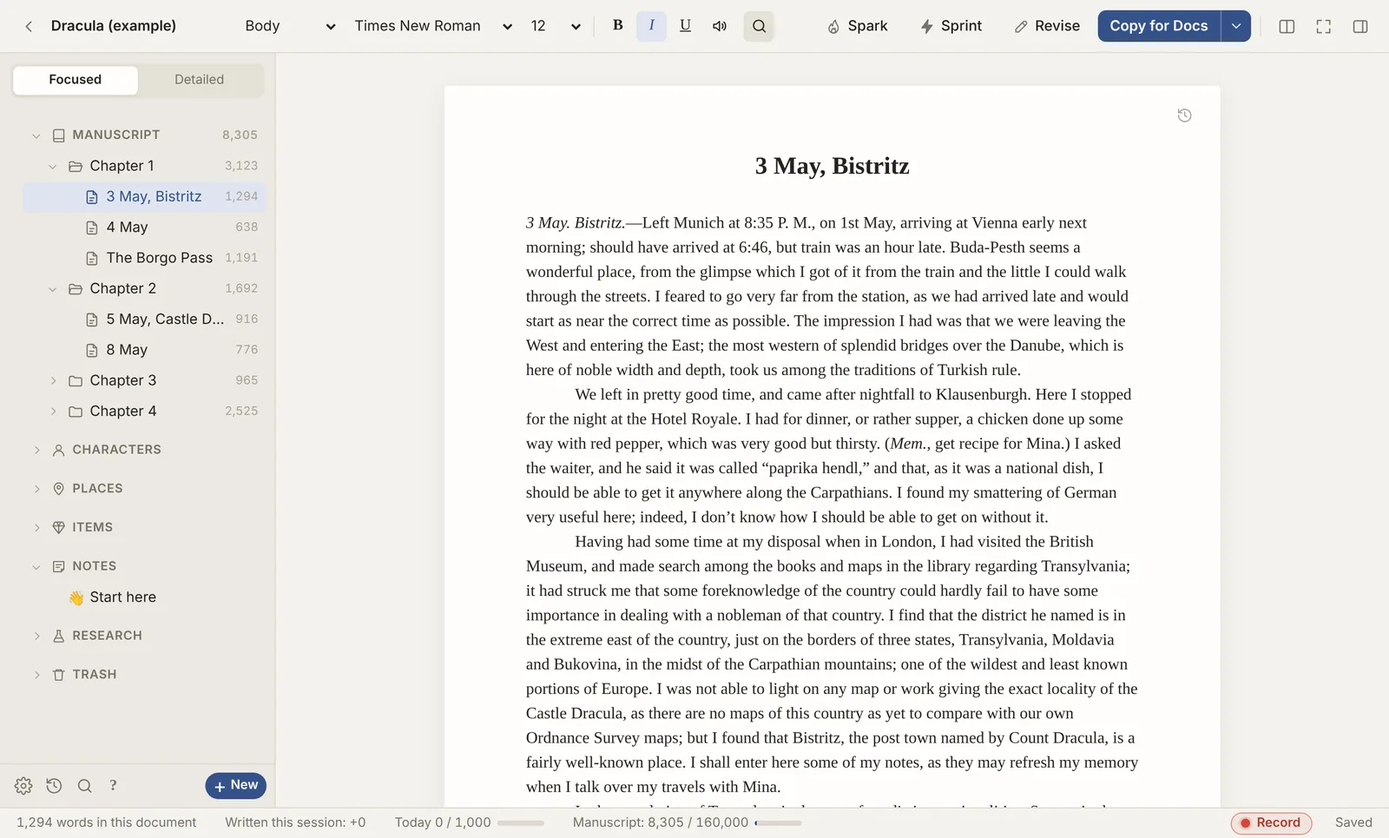
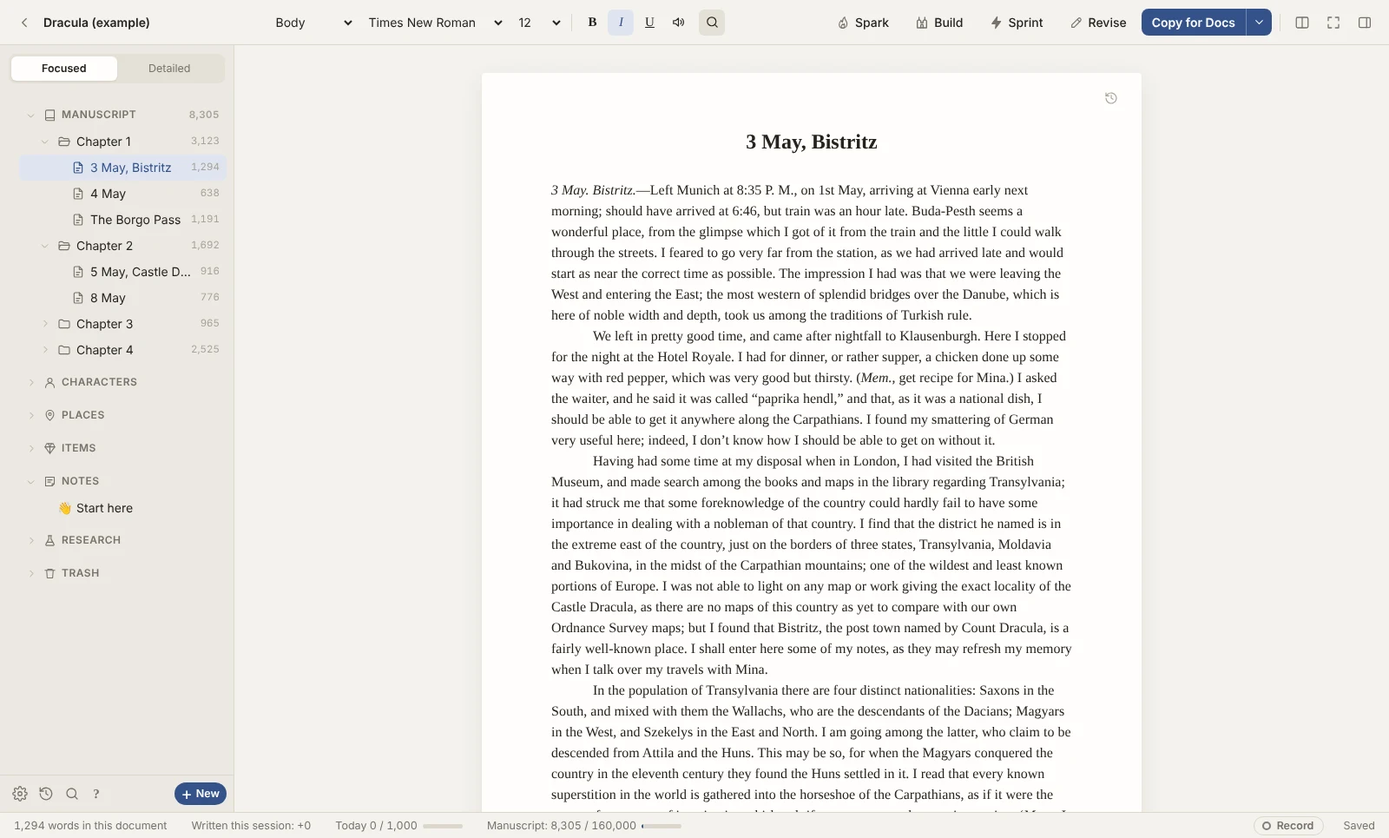
Unwip web 0.44.17

diff --git a/get/index.html b/get/index.html
@@ -523,7 +523,7 @@ dialog.mail .close{position:absolute;top:12px;right:14px;border:0;background:non
         <div class="two-col">
           <div><h3>A gentle start</h3><p>Say what you wrote with before and Unwip sets itself up to feel familiar, then brings your book straight in. An example book is there to poke at: the opening of Bram Stoker’s <i>Dracula</i>, its diary entries and letters laid out as scenes, with characters and a timeline.</p></div>
           <div><h3>A short tour</h3><p>A quick walk round the binder, the page and the modes, then out of your way. Help is always one key away (F1).</p></div>
-          <div><h3>Room to grow</h3><p>Characters, places and notes beside your manuscript, plus templates for magic systems, factions and more when your world gets bigger.</p></div>
+          <div><h3>Room to grow</h3><p>Characters, places and notes beside your manuscript, and <b>Build</b> for your world: maps you paint or roll up, magic systems with rules Unwip checks every spell against, runes, sigils and coats of arms. Open them from inside your book, in their own window on a computer.</p></div>
         </div>
       </div>
     </div>
@@ -540,7 +540,7 @@ dialog.mail .close{position:absolute;top:12px;right:14px;border:0;background:non
         <table class="cmp">
           <thead><tr><th scope="col"><span class="sr">Feature</span></th><th scope="col">Windows<span class="beta">beta</span></th><th scope="col">Mac<span class="beta">beta</span></th><th scope="col">iPad<span class="beta">beta</span></th><th scope="col">iPhone<span class="beta">beta</span></th><th scope="col">Browser<span class="beta">beta</span></th></tr></thead>
           <tbody>
-          <tr class="grp"><th colspan="6" scope="colgroup"><span>Writing and planning</span></th></tr><tr><th scope="row">Binder with chapters and scenes</th><td><svg class="dot" aria-label="Yes"><use href="#s2"/></svg></td><td><svg class="dot" aria-label="Yes"><use href="#s2"/></svg></td><td><svg class="dot" aria-label="Yes"><use href="#s2"/></svg></td><td><svg class="dot" aria-label="Yes"><use href="#s2"/></svg></td><td><svg class="dot" aria-label="Yes"><use href="#s2"/></svg></td></tr><tr><th scope="row">Focused and Detailed modes, outline</th><td><svg class="dot" aria-label="Yes"><use href="#s2"/></svg></td><td><svg class="dot" aria-label="Yes"><use href="#s2"/></svg></td><td><svg class="dot" aria-label="Yes"><use href="#s2"/></svg></td><td><svg class="dot" aria-label="Partly: outline only"><use href="#s1"/></svg><small>outline only</small></td><td><svg class="dot" aria-label="Yes"><use href="#s2"/></svg></td></tr><tr><th scope="row">Corkboard, moodboard and timeline</th><td><svg class="dot" aria-label="Yes"><use href="#s2"/></svg></td><td><svg class="dot" aria-label="Yes"><use href="#s2"/></svg></td><td><svg class="dot" aria-label="Yes"><use href="#s2"/></svg></td><td><span class="no" aria-label="No">–</span></td><td><svg class="dot" aria-label="Yes"><use href="#s2"/></svg></td></tr><tr><th scope="row">Split view</th><td><svg class="dot" aria-label="Yes"><use href="#s2"/></svg></td><td><svg class="dot" aria-label="Yes"><use href="#s2"/></svg></td><td><svg class="dot" aria-label="Yes"><use href="#s2"/></svg></td><td><span class="no" aria-label="No">–</span></td><td><svg class="dot" aria-label="Yes"><use href="#s2"/></svg></td></tr><tr><th scope="row">A chapter in its own window</th><td><svg class="dot" aria-label="Yes"><use href="#s2"/></svg></td><td><svg class="dot" aria-label="Yes"><use href="#s2"/></svg></td><td><span class="no" aria-label="No">–</span></td><td><span class="no" aria-label="No">–</span></td><td><span class="no" aria-label="No">–</span></td></tr><tr><th scope="row">Goals and timed sprints</th><td><svg class="dot" aria-label="Yes"><use href="#s2"/></svg></td><td><svg class="dot" aria-label="Yes"><use href="#s2"/></svg></td><td><svg class="dot" aria-label="Yes"><use href="#s2"/></svg></td><td><span class="no" aria-label="No">–</span></td><td><svg class="dot" aria-label="Yes"><use href="#s2"/></svg></td></tr><tr><th scope="row">Snapshots and automatic backups</th><td><svg class="dot" aria-label="Yes"><use href="#s2"/></svg></td><td><svg class="dot" aria-label="Yes"><use href="#s2"/></svg></td><td><svg class="dot" aria-label="Yes"><use href="#s2"/></svg></td><td><svg class="dot" aria-label="Yes"><use href="#s2"/></svg></td><td><svg class="dot" aria-label="Yes"><use href="#s2"/></svg></td></tr><tr><th scope="row">Revise: repetition, long sentences, grammar (no AI)</th><td><svg class="dot" aria-label="Yes"><use href="#s2"/></svg></td><td><svg class="dot" aria-label="Yes"><use href="#s2"/></svg></td><td><svg class="dot" aria-label="Yes"><use href="#s2"/></svg></td><td><svg class="dot" aria-label="Yes"><use href="#s2"/></svg></td><td><svg class="dot" aria-label="Yes"><use href="#s2"/></svg></td></tr><tr><th scope="row">Read aloud</th><td><svg class="dot" aria-label="Yes"><use href="#s2"/></svg></td><td><svg class="dot" aria-label="Yes"><use href="#s2"/></svg></td><td><svg class="dot" aria-label="Yes"><use href="#s2"/></svg></td><td><svg class="dot" aria-label="Yes"><use href="#s2"/></svg></td><td><svg class="dot" aria-label="Yes"><use href="#s2"/></svg></td></tr><tr><th scope="row">Fonts: your own, the device’s and imported</th><td><svg class="dot" aria-label="Yes"><use href="#s2"/></svg></td><td><svg class="dot" aria-label="Yes"><use href="#s2"/></svg></td><td><svg class="dot" aria-label="Yes"><use href="#s2"/></svg></td><td><svg class="dot" aria-label="Yes"><use href="#s2"/></svg></td><td><svg class="dot" aria-label="Yes"><use href="#s2"/></svg></td></tr><tr class="grp"><th colspan="6" scope="colgroup"><span>Bringing books in</span></th></tr><tr><th scope="row">Scrivener projects</th><td><svg class="dot" aria-label="Yes"><use href="#s2"/></svg></td><td><svg class="dot" aria-label="Yes"><use href="#s2"/></svg></td><td><svg class="dot" aria-label="Partly: from Dropbox"><use href="#s1"/></svg><small>from Dropbox</small></td><td><svg class="dot" aria-label="Partly: from Dropbox"><use href="#s1"/></svg><small>from Dropbox</small></td><td><svg class="dot" aria-label="Yes"><use href="#s2"/></svg></td></tr><tr><th scope="row">Word, Google Docs, text and Markdown files</th><td><svg class="dot" aria-label="Yes"><use href="#s2"/></svg></td><td><svg class="dot" aria-label="Yes"><use href="#s2"/></svg></td><td><svg class="dot" aria-label="Yes"><use href="#s2"/></svg></td><td><svg class="dot" aria-label="Yes"><use href="#s2"/></svg></td><td><svg class="dot" aria-label="Yes"><use href="#s2"/></svg></td></tr><tr><th scope="row">A whole folder or Obsidian vault</th><td><svg class="dot" aria-label="Yes"><use href="#s2"/></svg></td><td><svg class="dot" aria-label="Yes"><use href="#s2"/></svg></td><td><svg class="dot" aria-label="Partly: files, not folders"><use href="#s1"/></svg><small>files, not folders</small></td><td><svg class="dot" aria-label="Partly: files, not folders"><use href="#s1"/></svg><small>files, not folders</small></td><td><svg class="dot" aria-label="Yes"><use href="#s2"/></svg></td></tr><tr class="grp"><th colspan="6" scope="colgroup"><span>Taking it out</span></th></tr><tr><th scope="row">Print-ready PDF</th><td><svg class="dot" aria-label="Yes"><use href="#s2"/></svg></td><td><svg class="dot" aria-label="Yes"><use href="#s2"/></svg></td><td><svg class="dot" aria-label="Yes"><use href="#s2"/></svg></td><td><span class="no" aria-label="No">–</span></td><td><svg class="dot" aria-label="Yes"><use href="#s2"/></svg></td></tr><tr><th scope="row">EPUB e-book and Word</th><td><svg class="dot" aria-label="Yes"><use href="#s2"/></svg></td><td><svg class="dot" aria-label="Yes"><use href="#s2"/></svg></td><td><svg class="dot" aria-label="Yes"><use href="#s2"/></svg></td><td><span class="no" aria-label="No">–</span></td><td><svg class="dot" aria-label="Yes"><use href="#s2"/></svg></td></tr><tr><th scope="row">Back to Scrivener</th><td><svg class="dot" aria-label="Yes"><use href="#s2"/></svg></td><td><svg class="dot" aria-label="Yes"><use href="#s2"/></svg></td><td><svg class="dot" aria-label="Partly: as a .zip"><use href="#s1"/></svg><small>as a .zip</small></td><td><svg class="dot" aria-label="Partly: as a .zip"><use href="#s1"/></svg><small>as a .zip</small></td><td><svg class="dot" aria-label="Partly: as a .zip"><use href="#s1"/></svg><small>as a .zip</small></td></tr><tr><th scope="row">A folder of Word or Markdown files</th><td><svg class="dot" aria-label="Yes"><use href="#s2"/></svg></td><td><svg class="dot" aria-label="Yes"><use href="#s2"/></svg></td><td><svg class="dot" aria-label="Partly: as a .zip"><use href="#s1"/></svg><small>as a .zip</small></td><td><svg class="dot" aria-label="Partly: as a .zip"><use href="#s1"/></svg><small>as a .zip</small></td><td><svg class="dot" aria-label="Partly: as a .zip"><use href="#s1"/></svg><small>as a .zip</small></td></tr><tr><th scope="row">Copy for Docs</th><td><svg class="dot" aria-label="Yes"><use href="#s2"/></svg></td><td><svg class="dot" aria-label="Yes"><use href="#s2"/></svg></td><td><svg class="dot" aria-label="Yes"><use href="#s2"/></svg></td><td><svg class="dot" aria-label="Yes"><use href="#s2"/></svg></td><td><svg class="dot" aria-label="Yes"><use href="#s2"/></svg></td></tr><tr class="grp"><th colspan="6" scope="colgroup"><span>Your files</span></th></tr><tr><th scope="row">Dropbox sync between devices</th><td><svg class="dot" aria-label="Yes"><use href="#s2"/></svg></td><td><svg class="dot" aria-label="Yes"><use href="#s2"/></svg></td><td><svg class="dot" aria-label="Yes"><use href="#s2"/></svg></td><td><svg class="dot" aria-label="Yes"><use href="#s2"/></svg></td><td><svg class="dot" aria-label="Yes"><use href="#s2"/></svg></td></tr><tr><th scope="row">OneDrive, Google Drive or iCloud Drive folders</th><td><svg class="dot" aria-label="Yes"><use href="#s2"/></svg><small>OneDrive, Google Drive</small></td><td><svg class="dot" aria-label="Yes"><use href="#s2"/></svg><small>iCloud, OneDrive, Google Drive</small></td><td><span class="no" aria-label="No">–</span></td><td><span class="no" aria-label="No">–</span></td><td><span class="no" aria-label="No">–</span></td></tr><tr><th scope="row">Works offline</th><td><svg class="dot" aria-label="Yes"><use href="#s2"/></svg></td><td><svg class="dot" aria-label="Yes"><use href="#s2"/></svg></td><td><svg class="dot" aria-label="Yes"><use href="#s2"/></svg></td><td><svg class="dot" aria-label="Yes"><use href="#s2"/></svg></td><td><svg class="dot" aria-label="Partly: once opened"><use href="#s1"/></svg><small>once opened</small></td></tr><tr><th scope="row">Updates itself</th><td><svg class="dot" aria-label="Yes"><use href="#s2"/></svg></td><td><svg class="dot" aria-label="Yes"><use href="#s2"/></svg></td><td><svg class="dot" aria-label="Yes"><use href="#s2"/></svg></td><td><svg class="dot" aria-label="Yes"><use href="#s2"/></svg></td><td><svg class="dot" aria-label="Yes"><use href="#s2"/></svg></td></tr><tr class="grp"><th colspan="6" scope="colgroup"><span>Proof of writing</span></th></tr><tr><th scope="row">Replay, report and timelapse</th><td><svg class="dot" aria-label="Yes"><use href="#s2"/></svg></td><td><svg class="dot" aria-label="Yes"><use href="#s2"/></svg></td><td><svg class="dot" aria-label="Yes"><use href="#s2"/></svg></td><td><svg class="dot" aria-label="Yes"><use href="#s2"/></svg></td><td><svg class="dot" aria-label="Yes"><use href="#s2"/></svg></td></tr><tr><th scope="row">Screen video</th><td><svg class="dot" aria-label="Yes"><use href="#s2"/></svg></td><td><svg class="dot" aria-label="Partly: untested"><use href="#s1"/></svg><small>untested</small></td><td><svg class="dot" aria-label="Partly: iPad’s own recorder"><use href="#s1"/></svg><small>iPad’s own recorder</small></td><td><svg class="dot" aria-label="Partly: iPhone’s own recorder"><use href="#s1"/></svg><small>iPhone’s own recorder</small></td><td><svg class="dot" aria-label="Yes"><use href="#s2"/></svg></td></tr>
+          <tr class="grp"><th colspan="6" scope="colgroup"><span>Writing and planning</span></th></tr><tr><th scope="row">Binder with chapters and scenes</th><td><svg class="dot" aria-label="Yes"><use href="#s2"/></svg></td><td><svg class="dot" aria-label="Yes"><use href="#s2"/></svg></td><td><svg class="dot" aria-label="Yes"><use href="#s2"/></svg></td><td><svg class="dot" aria-label="Yes"><use href="#s2"/></svg></td><td><svg class="dot" aria-label="Yes"><use href="#s2"/></svg></td></tr><tr><th scope="row">Focused and Detailed modes, outline</th><td><svg class="dot" aria-label="Yes"><use href="#s2"/></svg></td><td><svg class="dot" aria-label="Yes"><use href="#s2"/></svg></td><td><svg class="dot" aria-label="Yes"><use href="#s2"/></svg></td><td><svg class="dot" aria-label="Partly: outline only"><use href="#s1"/></svg><small>outline only</small></td><td><svg class="dot" aria-label="Yes"><use href="#s2"/></svg></td></tr><tr><th scope="row">Build: maps, magic systems, runes, sigils and coats of arms</th><td><svg class="dot" aria-label="Yes"><use href="#s2"/></svg></td><td><svg class="dot" aria-label="Yes"><use href="#s2"/></svg></td><td><svg class="dot" aria-label="Yes"><use href="#s2"/></svg></td><td><svg class="dot" aria-label="Yes"><use href="#s2"/></svg></td><td><svg class="dot" aria-label="Yes"><use href="#s2"/></svg></td></tr><tr><th scope="row">Corkboard, moodboard and timeline</th><td><svg class="dot" aria-label="Yes"><use href="#s2"/></svg></td><td><svg class="dot" aria-label="Yes"><use href="#s2"/></svg></td><td><svg class="dot" aria-label="Yes"><use href="#s2"/></svg></td><td><span class="no" aria-label="No">–</span></td><td><svg class="dot" aria-label="Yes"><use href="#s2"/></svg></td></tr><tr><th scope="row">Split view</th><td><svg class="dot" aria-label="Yes"><use href="#s2"/></svg></td><td><svg class="dot" aria-label="Yes"><use href="#s2"/></svg></td><td><svg class="dot" aria-label="Yes"><use href="#s2"/></svg></td><td><span class="no" aria-label="No">–</span></td><td><svg class="dot" aria-label="Yes"><use href="#s2"/></svg></td></tr><tr><th scope="row">A chapter in its own window</th><td><svg class="dot" aria-label="Yes"><use href="#s2"/></svg></td><td><svg class="dot" aria-label="Yes"><use href="#s2"/></svg></td><td><span class="no" aria-label="No">–</span></td><td><span class="no" aria-label="No">–</span></td><td><span class="no" aria-label="No">–</span></td></tr><tr><th scope="row">Goals and timed sprints</th><td><svg class="dot" aria-label="Yes"><use href="#s2"/></svg></td><td><svg class="dot" aria-label="Yes"><use href="#s2"/></svg></td><td><svg class="dot" aria-label="Yes"><use href="#s2"/></svg></td><td><span class="no" aria-label="No">–</span></td><td><svg class="dot" aria-label="Yes"><use href="#s2"/></svg></td></tr><tr><th scope="row">Snapshots and automatic backups</th><td><svg class="dot" aria-label="Yes"><use href="#s2"/></svg></td><td><svg class="dot" aria-label="Yes"><use href="#s2"/></svg></td><td><svg class="dot" aria-label="Yes"><use href="#s2"/></svg></td><td><svg class="dot" aria-label="Yes"><use href="#s2"/></svg></td><td><svg class="dot" aria-label="Yes"><use href="#s2"/></svg></td></tr><tr><th scope="row">Revise: repetition, long sentences, grammar (no AI)</th><td><svg class="dot" aria-label="Yes"><use href="#s2"/></svg></td><td><svg class="dot" aria-label="Yes"><use href="#s2"/></svg></td><td><svg class="dot" aria-label="Yes"><use href="#s2"/></svg></td><td><svg class="dot" aria-label="Yes"><use href="#s2"/></svg></td><td><svg class="dot" aria-label="Yes"><use href="#s2"/></svg></td></tr><tr><th scope="row">Read aloud</th><td><svg class="dot" aria-label="Yes"><use href="#s2"/></svg></td><td><svg class="dot" aria-label="Yes"><use href="#s2"/></svg></td><td><svg class="dot" aria-label="Yes"><use href="#s2"/></svg></td><td><svg class="dot" aria-label="Yes"><use href="#s2"/></svg></td><td><svg class="dot" aria-label="Yes"><use href="#s2"/></svg></td></tr><tr><th scope="row">Fonts: your own, the device’s and imported</th><td><svg class="dot" aria-label="Yes"><use href="#s2"/></svg></td><td><svg class="dot" aria-label="Yes"><use href="#s2"/></svg></td><td><svg class="dot" aria-label="Yes"><use href="#s2"/></svg></td><td><svg class="dot" aria-label="Yes"><use href="#s2"/></svg></td><td><svg class="dot" aria-label="Yes"><use href="#s2"/></svg></td></tr><tr class="grp"><th colspan="6" scope="colgroup"><span>Bringing books in</span></th></tr><tr><th scope="row">Scrivener projects</th><td><svg class="dot" aria-label="Yes"><use href="#s2"/></svg></td><td><svg class="dot" aria-label="Yes"><use href="#s2"/></svg></td><td><svg class="dot" aria-label="Partly: from Dropbox"><use href="#s1"/></svg><small>from Dropbox</small></td><td><svg class="dot" aria-label="Partly: from Dropbox"><use href="#s1"/></svg><small>from Dropbox</small></td><td><svg class="dot" aria-label="Yes"><use href="#s2"/></svg></td></tr><tr><th scope="row">Word, Google Docs, text and Markdown files</th><td><svg class="dot" aria-label="Yes"><use href="#s2"/></svg></td><td><svg class="dot" aria-label="Yes"><use href="#s2"/></svg></td><td><svg class="dot" aria-label="Yes"><use href="#s2"/></svg></td><td><svg class="dot" aria-label="Yes"><use href="#s2"/></svg></td><td><svg class="dot" aria-label="Yes"><use href="#s2"/></svg></td></tr><tr><th scope="row">A whole folder or Obsidian vault</th><td><svg class="dot" aria-label="Yes"><use href="#s2"/></svg></td><td><svg class="dot" aria-label="Yes"><use href="#s2"/></svg></td><td><svg class="dot" aria-label="Partly: files, not folders"><use href="#s1"/></svg><small>files, not folders</small></td><td><svg class="dot" aria-label="Partly: files, not folders"><use href="#s1"/></svg><small>files, not folders</small></td><td><svg class="dot" aria-label="Yes"><use href="#s2"/></svg></td></tr><tr class="grp"><th colspan="6" scope="colgroup"><span>Taking it out</span></th></tr><tr><th scope="row">Print-ready PDF</th><td><svg class="dot" aria-label="Yes"><use href="#s2"/></svg></td><td><svg class="dot" aria-label="Yes"><use href="#s2"/></svg></td><td><svg class="dot" aria-label="Yes"><use href="#s2"/></svg></td><td><span class="no" aria-label="No">–</span></td><td><svg class="dot" aria-label="Yes"><use href="#s2"/></svg></td></tr><tr><th scope="row">EPUB e-book and Word</th><td><svg class="dot" aria-label="Yes"><use href="#s2"/></svg></td><td><svg class="dot" aria-label="Yes"><use href="#s2"/></svg></td><td><svg class="dot" aria-label="Yes"><use href="#s2"/></svg></td><td><span class="no" aria-label="No">–</span></td><td><svg class="dot" aria-label="Yes"><use href="#s2"/></svg></td></tr><tr><th scope="row">Back to Scrivener</th><td><svg class="dot" aria-label="Yes"><use href="#s2"/></svg></td><td><svg class="dot" aria-label="Yes"><use href="#s2"/></svg></td><td><svg class="dot" aria-label="Partly: as a .zip"><use href="#s1"/></svg><small>as a .zip</small></td><td><svg class="dot" aria-label="Partly: as a .zip"><use href="#s1"/></svg><small>as a .zip</small></td><td><svg class="dot" aria-label="Partly: as a .zip"><use href="#s1"/></svg><small>as a .zip</small></td></tr><tr><th scope="row">A folder of Word or Markdown files</th><td><svg class="dot" aria-label="Yes"><use href="#s2"/></svg></td><td><svg class="dot" aria-label="Yes"><use href="#s2"/></svg></td><td><svg class="dot" aria-label="Partly: as a .zip"><use href="#s1"/></svg><small>as a .zip</small></td><td><svg class="dot" aria-label="Partly: as a .zip"><use href="#s1"/></svg><small>as a .zip</small></td><td><svg class="dot" aria-label="Partly: as a .zip"><use href="#s1"/></svg><small>as a .zip</small></td></tr><tr><th scope="row">Copy for Docs</th><td><svg class="dot" aria-label="Yes"><use href="#s2"/></svg></td><td><svg class="dot" aria-label="Yes"><use href="#s2"/></svg></td><td><svg class="dot" aria-label="Yes"><use href="#s2"/></svg></td><td><svg class="dot" aria-label="Yes"><use href="#s2"/></svg></td><td><svg class="dot" aria-label="Yes"><use href="#s2"/></svg></td></tr><tr class="grp"><th colspan="6" scope="colgroup"><span>Your files</span></th></tr><tr><th scope="row">Dropbox sync between devices</th><td><svg class="dot" aria-label="Yes"><use href="#s2"/></svg></td><td><svg class="dot" aria-label="Yes"><use href="#s2"/></svg></td><td><svg class="dot" aria-label="Yes"><use href="#s2"/></svg></td><td><svg class="dot" aria-label="Yes"><use href="#s2"/></svg></td><td><svg class="dot" aria-label="Yes"><use href="#s2"/></svg></td></tr><tr><th scope="row">OneDrive, Google Drive or iCloud Drive folders</th><td><svg class="dot" aria-label="Yes"><use href="#s2"/></svg><small>OneDrive, Google Drive</small></td><td><svg class="dot" aria-label="Yes"><use href="#s2"/></svg><small>iCloud, OneDrive, Google Drive</small></td><td><span class="no" aria-label="No">–</span></td><td><span class="no" aria-label="No">–</span></td><td><span class="no" aria-label="No">–</span></td></tr><tr><th scope="row">Works offline</th><td><svg class="dot" aria-label="Yes"><use href="#s2"/></svg></td><td><svg class="dot" aria-label="Yes"><use href="#s2"/></svg></td><td><svg class="dot" aria-label="Yes"><use href="#s2"/></svg></td><td><svg class="dot" aria-label="Yes"><use href="#s2"/></svg></td><td><svg class="dot" aria-label="Partly: once opened"><use href="#s1"/></svg><small>once opened</small></td></tr><tr><th scope="row">Updates itself</th><td><svg class="dot" aria-label="Yes"><use href="#s2"/></svg></td><td><svg class="dot" aria-label="Yes"><use href="#s2"/></svg></td><td><svg class="dot" aria-label="Yes"><use href="#s2"/></svg></td><td><svg class="dot" aria-label="Yes"><use href="#s2"/></svg></td><td><svg class="dot" aria-label="Yes"><use href="#s2"/></svg></td></tr><tr class="grp"><th colspan="6" scope="colgroup"><span>Proof of writing</span></th></tr><tr><th scope="row">Replay, report and timelapse</th><td><svg class="dot" aria-label="Yes"><use href="#s2"/></svg></td><td><svg class="dot" aria-label="Yes"><use href="#s2"/></svg></td><td><svg class="dot" aria-label="Yes"><use href="#s2"/></svg></td><td><svg class="dot" aria-label="Yes"><use href="#s2"/></svg></td><td><svg class="dot" aria-label="Yes"><use href="#s2"/></svg></td></tr><tr><th scope="row">Screen video</th><td><svg class="dot" aria-label="Yes"><use href="#s2"/></svg></td><td><svg class="dot" aria-label="Partly: untested"><use href="#s1"/></svg><small>untested</small></td><td><svg class="dot" aria-label="Partly: iPad’s own recorder"><use href="#s1"/></svg><small>iPad’s own recorder</small></td><td><svg class="dot" aria-label="Partly: iPhone’s own recorder"><use href="#s1"/></svg><small>iPhone’s own recorder</small></td><td><svg class="dot" aria-label="Yes"><use href="#s2"/></svg></td></tr>
           </tbody>
         </table>
       </div>
@@ -560,7 +560,7 @@ dialog.mail .close{position:absolute;top:12px;right:14px;border:0;background:non
             <div><b id="st-pasted">0</b><span>words pasted</span></div>
             <div><b id="st-share">100%</b><span>of new words typed</span></div>
           </div>
-          <p class="small" style="margin-top:16px"><b>Only on your device:</b> replays are kept with the book (and in your own cloud folder if the book is there), never uploaded anywhere. A long writing day is about 1 MB. There’s a screen-video option too, with a clear warning first, because videos get big.</p>
+          <p class="small" style="margin-top:16px"><b>Only on your device:</b> replays are kept with the book (and in your own cloud folder if the book is there), never uploaded anywhere. A long writing day is about 1 MB. There’s a screen-video option too, with a clear warning first because videos get big, a pause button for breaks, and an optional “Not recording” reminder so you never forget to start it.</p>
         </div>
         <div class="rv d1">
           <div class="replay" aria-label="A replay of a paragraph being written, with a pasted note highlighted" role="img">

diff --git a/sw.js b/sw.js
@@ -1,5 +1,5 @@
 // Unwip offline cache: the app keeps working with no internet once opened once.
-const CACHE = "unwip-0.44.16-d815188d1f";
+const CACHE = "unwip-0.44.17-aa7a84f42c";
 const FILES = ["./", "about.js", "analysis.js", "app.js", "bookfont.js", "bookimport.js", "build.js", "buildarms.js", "buildmagic.js", "buildrunes.js", "calendar.js", "clipboard.js", "command.js", "dbximport.js", "dialogue.js", "docx.js", "dropbox-key.js", "dropbox.js", "epub.js", "example-text.js", "exportfolder.js", "favicon-16.png", "favicon-32.png", "favicon-48.png", "fonts.js", "fonts/Bookhaven-Bold.woff", "fonts/Bookhaven-Italic-Bold.woff", "fonts/Bookhaven-Italic-Regular.woff", "fonts/Bookhaven-Regular.woff", "fonts/Cinzel-Bold.woff", "fonts/Cinzel-Regular.woff", "fonts/CrimsonPro-Bold.woff", "fonts/CrimsonPro-Italic-Bold.woff", "fonts/CrimsonPro-Italic-Regular.woff", "fonts/CrimsonPro-Regular.woff", "fonts/EBGaramond-Bold.woff", "fonts/EBGaramond-Italic-Bold.woff", "fonts/EBGaramond-Italic-Regular.woff", "fonts/EBGaramond-Regular.woff", "fonts/Larkspur-Bold.woff", "fonts/Larkspur-Italic-Bold.woff", "fonts/Larkspur-Italic-Regular.woff", "fonts/Larkspur-Regular.woff", "fonts/OFL-EBGaramond.txt", "fonts/OFL-bookhaven.txt", "fonts/OFL-cinzel.txt", "fonts/OFL-crimsonpro.txt", "fonts/OFL-larkspur.txt", "fonts/OFL-oswald.txt", "fonts/Oswald-Bold.woff", "fonts/Oswald-Regular.woff", "getstarted.js", "grammar.js", "harper.js", "help.js", "history.js", "icon-180.png", "icon-192.png", "icon-512.png", "icon.png", "icons.js", "images.js", "importers.js", "index.html", "insights.js", "kokoro-files.js", "kokoro-worker.js", "links.js", "look.js", "macwords.js", "manifest.webmanifest", "maps.js", "mobile.js", "move.js", "names.js", "naturalvoice.js", "notes.js", "onboard.js", "pcsync.js", "play.js", "popout.html", "popout.js", "proof.js", "quotes.js", "readaloud.js", "reader.js", "revise.js", "rtf.js", "scrivexport.js", "scrivimport.js", "selbar.js", "series.js", "sheets.js", "side.js", "sprints.js", "stuck.js", "style.css", "support-email.js", "sync.js", "titles.js", "town.js", "track.js", "typeset.js", "updates.js", "usage.js", "web-api.js", "web-version.js", "webmfix.js"];
 self.addEventListener('install', e => { e.waitUntil(caches.open(CACHE).then(c => c.addAll(FILES)).then(() => self.skipWaiting())); });
 self.addEventListener('activate', e => { e.waitUntil(caches.keys().then(ks => Promise.all(ks.filter(k => k !== CACHE && /^unwip-\d/.test(k)).map(k => caches.delete(k)))).then(() => self.clients.claim())); });

diff --git a/app.js b/app.js
@@ -111,7 +111,7 @@
     m.classList.remove('hidden');
     const r = m.getBoundingClientRect();
     m.style.left = Math.min(x, innerWidth - r.width - 8) + 'px';
-    m.style.top = Math.min(y, innerHeight - r.height - 8) + 'px';
+    m.style.top = Math.max(8, Math.min(y, innerHeight - r.height - 8)) + 'px';
   }
   function hideMenu() { $('#menu').classList.add('hidden'); }
   document.addEventListener('mousedown', e => { if (!e.target.closest('#menu') && !(S.longPress && Date.now() - S.longPress < 900)) hideMenu(); });
@@ -2704,6 +2704,7 @@
     document.body.appendChild(pop);
     const r = $('#export-split').getBoundingClientRect();
     pop.style.top = (r.bottom + 6) + 'px'; pop.style.left = Math.max(8, Math.min(innerWidth - pop.offsetWidth - 8, r.right - pop.offsetWidth)) + 'px';
+    pop.style.maxHeight = Math.max(200, innerHeight - r.bottom - 14) + 'px'; pop.style.overflowY = 'auto';   // a short window: it scrolls instead of running off the bottom
     $$('.ex-item', pop).forEach(b => b.onclick = () => { pop.remove(); items[+b.dataset.i][4](); });
     setTimeout(() => document.addEventListener('mousedown', function off(ev) { if (!pop.contains(ev.target)) { pop.remove(); document.removeEventListener('mousedown', off); } }), 0);
   };

diff --git a/build.js b/build.js
@@ -278,6 +278,6 @@ window.UnwipBuild = (function () {
   // what a book can borrow from Build (runes and sigils as coat-of-arms charges, alphabets for a sigil's ring)
   async function all(kind) { await refresh(); const out = []; for (const h of items.filter(x => !kind || x.kind === kind)) { const it = await get(h.id); if (it) out.push(it); } return out; }
 
-  { const bb = document.getElementById('btn-build-book'); if (bb) bb.onclick = () => fromBook(); }
+  { const bb = document.getElementById('btn-build-book'); if (bb) { bb.innerHTML = '<svg width="15" height="15" viewBox="0 0 24 24" fill="none" stroke="currentColor" stroke-width="2" stroke-linecap="round" stroke-linejoin="round" aria-hidden="true"><path d="M4 21V9l3-2 3 2v3h4V9l3-2 3 2v12z"/><path d="M10 21v-4a2 2 0 0 1 4 0v4"/><path d="M7 7V3M17 7V3"/></svg><span class="tb-label">Build</span>'; bb.onclick = () => fromBook(); } }
   return { KINDS, editors, render, refresh, open, close, create, fromBook, flush, get from() { return ret; }, readMap, writeMap, get, put, all, svgCanvas, svgURL, copyCanvas, savePNG, canvasBytes, addToBook, get items() { return items; } };
 })();

diff --git a/index.html b/index.html
@@ -128,7 +128,7 @@
 
     <div class="tb-right">
       <button class="btn ghost stuck-top" id="btn-stuck" title="Spark: tools for a blank page or a slow day">Spark</button>
-      <button class="btn ghost" id="btn-build-book" title="Build: your maps, magic, runes, sigils and coats of arms, without leaving this book">Build</button>
+      <button class="btn ghost stuck-top" id="btn-build-book" title="Build: your maps, magic, runes, sigils and coats of arms, without leaving this book">Build</button>
       <button class="btn sprint-top" id="btn-sprint" title="Start a timed writing sprint"><span class="bolt" id="sprint-bolt"></span><span id="sprint-label">Sprint</span><i class="sprint-progress" id="sprint-progress"></i></button>
       <button class="btn ghost toggle" id="btn-revise" title="Revision mode: highlights hard sentences, adverbs, passive voice and more (F7)">Revise</button>
       <div class="export-split" id="export-split">

diff --git a/web-version.js b/web-version.js
@@ -1,4 +1,4 @@
-window.UNWIP_VERSION = "0.44.16";
+window.UNWIP_VERSION = "0.44.17";
 if ('serviceWorker' in navigator && location.protocol === 'https:') addEventListener('load', () => navigator.serviceWorker.register('sw.js').catch(() => {}));
 (function () {
   if (location.protocol !== 'https:') return;

diff --git a/style.css b/style.css
@@ -2725,3 +2725,4 @@ body.writer .pf-remind { bottom: 18px; }
 .bd-pick-th img { width: 100%; height: 100%; object-fit: cover; }
 .bd-pick-win { font-size: 17px; }
 .bd-pick-new { display: flex; flex-wrap: wrap; gap: 6px; }
+.ctx-menu { max-height: calc(100vh - 16px); overflow-y: auto; }
